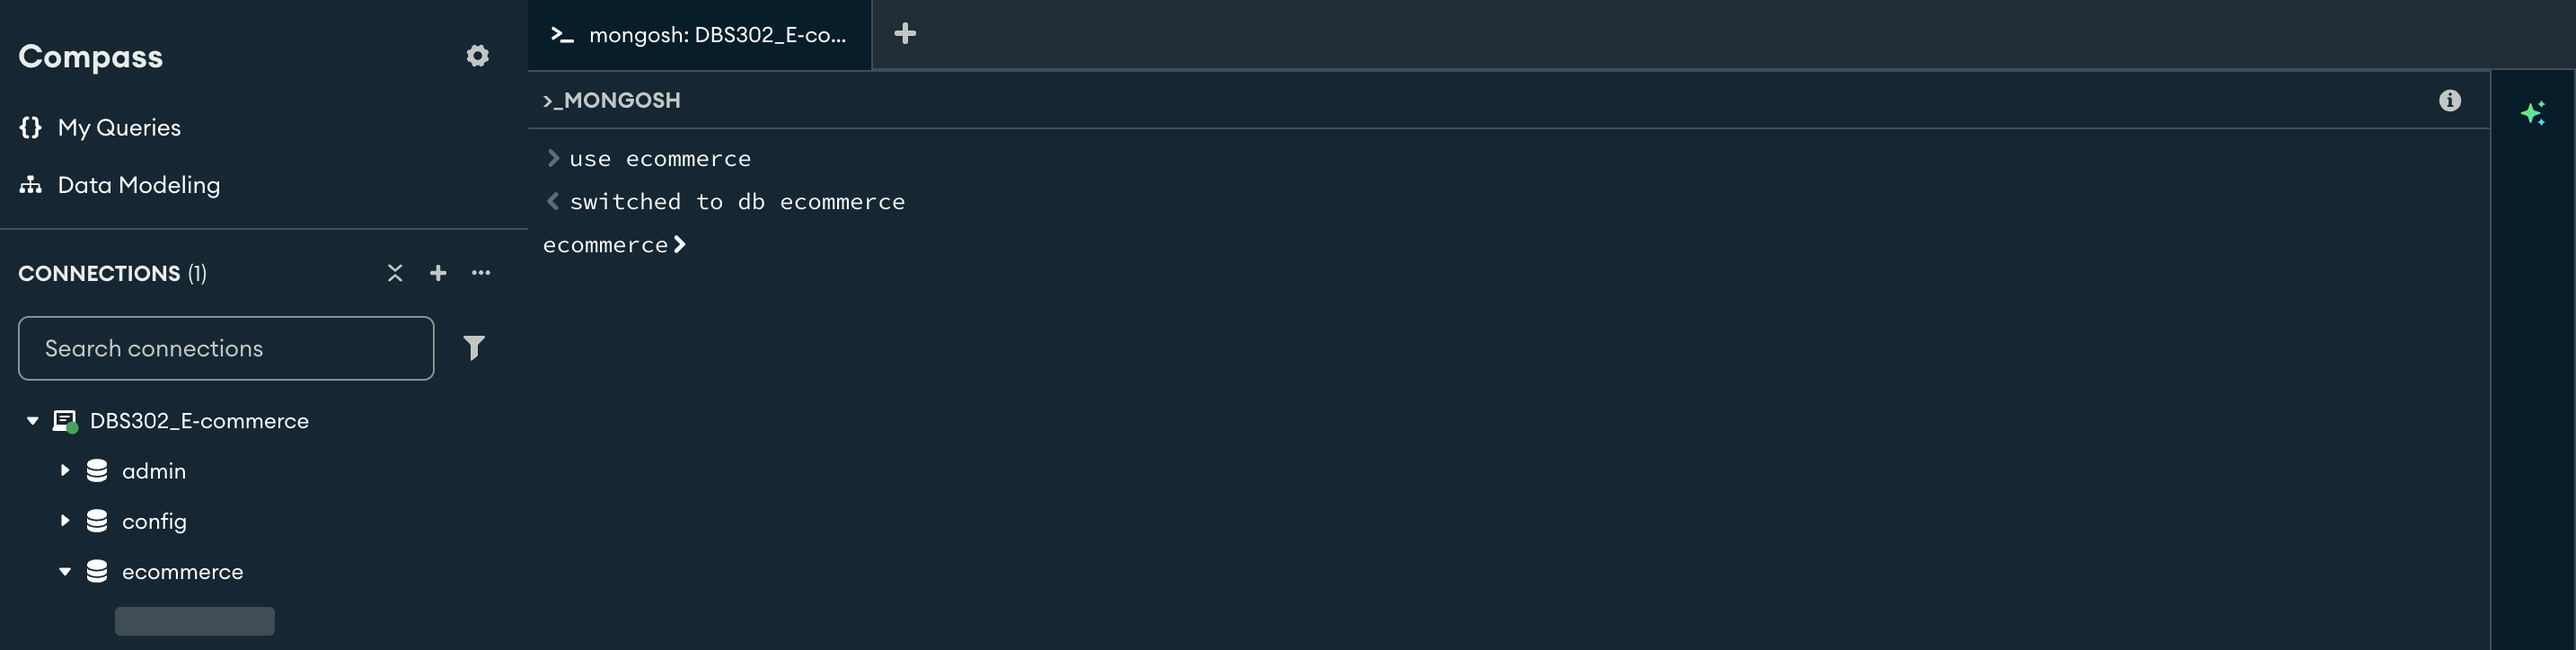
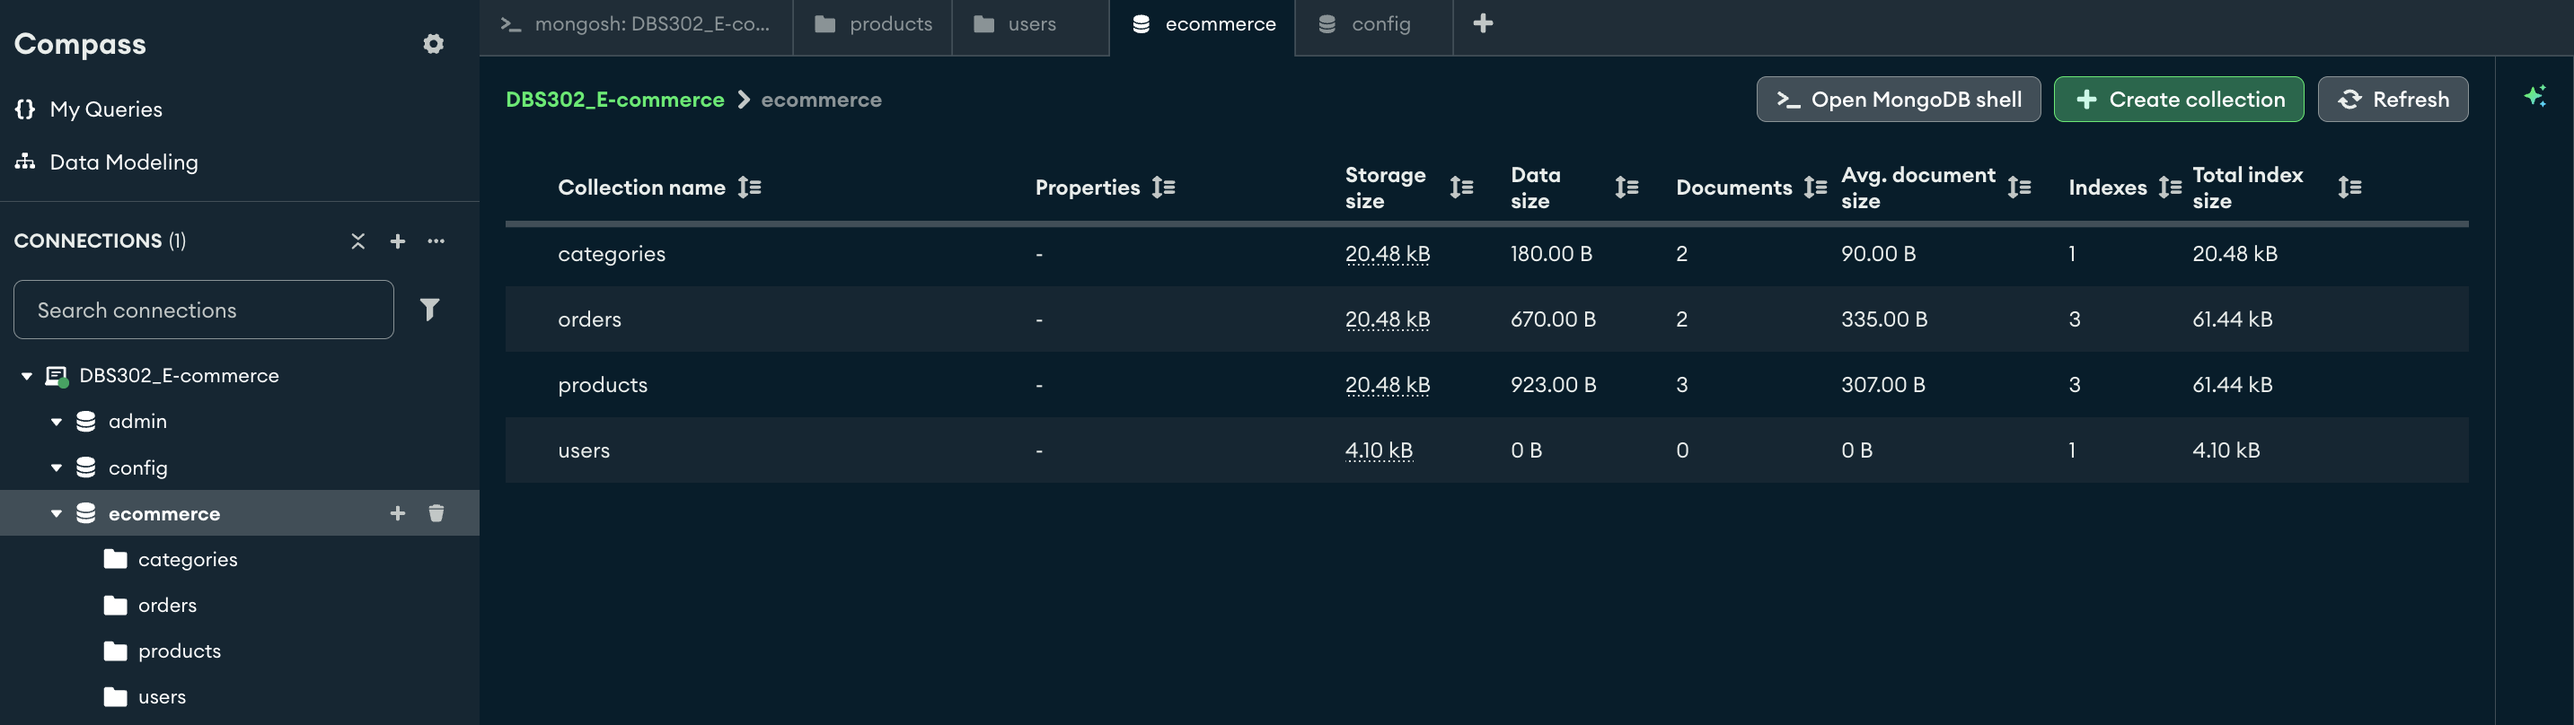
[update] practical3 report

diff --git a/Practical_3/README.MD b/Practical_3/README.MD
@@ -1,1 +1,248 @@
-# Report 
+# DBS302 Practical 3 Report
+
+## Title
+Design and Implement an E-Commerce Platform Schema in MongoDB, Use Aggregation Framework, and Optimize Query Performance
+
+## Aim
+To design and implement an e-commerce platform schema using MongoDB, write advanced aggregation queries, and apply indexing plus query plan analysis to optimize performance.
+
+## Objectives Achieved
+1. Modeled a realistic e-commerce domain with users, categories, products, and orders.
+2. Implemented the schema as MongoDB collections and inserted representative sample data.
+3. Built non-trivial aggregation pipelines for business analytics.
+4. Created indexes (compound and text) aligned to query patterns.
+5. Used explain("executionStats") to validate optimization impact.
+
+## Brief Design Rationale
+1. Embedding vs Referencing
+Order items are embedded in orders because they are read together and bounded per order.
+Users, products, and categories are referenced by ObjectId to avoid duplication of shared entities.
+
+2. Attribute Pattern for Catalog Flexibility
+The products collection uses an attributes object for variable product properties (brand, color, switchType, etc.), which supports heterogeneous product categories.
+
+3. Query-First Design
+Indexes were created based on frequent read patterns such as status/date filtering, user order history, category listing, and product text search.
+
+## Part 1: Database and Collection Setup
+### 1.1 Create Database
+```javascript
+use ecommerce
+```
+
+### 1.2 Create Collections
+Created collections: users, categories, products, orders.
+
+<img src="screenshots/Create collections.png" alt="Create collections command" width="60%"/>
+
+This screenshot shows the commands used to create the required MongoDB collections for the e-commerce schema.
+
+<img src="screenshots/ecommerce database.png" alt="Database created" width="60%"/>
+
+This output confirms that the `ecommerce` database is active and ready for data insertion.
+
+## Part 2: Insert Sample Data
+### 2.1 Insert Users
+Inserted two users: Tashi Dorji and Sonam Choden.
+
+<img src="screenshots/Insert Users.png" alt="Insert users command" width="60%"/>
+
+This screenshot shows the insertMany command used to add user documents with profile and address details.
+
+<img src="screenshots/inserted user data.png" alt="Inserted users output" width="60%"/>
+
+This output verifies that both user records were successfully inserted into the users collection.
+
+### 2.2 Insert Categories
+Inserted Electronics and Accessories categories using reusable ObjectId variables.
+
+<img src="screenshots/Insert Categories.png" alt="Insert categories command" width="60%"/>
+
+This screenshot shows category insertion with predefined ObjectId values for later product references.
+
+<img src="screenshots/inserted categories.png" alt="Inserted categories output" width="60%"/>
+
+This confirms that Electronics and Accessories categories were inserted correctly.
+
+### 2.3 Insert Products
+Inserted three products with variable attributes via the Attribute Pattern.
+
+<img src="screenshots/Insert Products.png" alt="Insert products command" width="60%"/>
+
+This screenshot captures product insertion using flexible `attributes` fields for different product properties.
+
+<img src="screenshots/inserted product.png" alt="Inserted products output" width="60%"/>
+
+This output confirms all sample products were added with category links and pricing details.
+
+### 2.4 Insert Orders
+Inserted two orders with embedded order items and historical pricing stored in each item.
+
+
+<img src="screenshots/Insert Orders.png" alt="Insert orders command" width="60%"/>
+
+This screenshot shows order creation with embedded items, quantities, line totals, and payment details.
+
+<img src="screenshots/inserted orders.png" alt="Inserted orders output" width="60%"/>
+
+This output verifies order documents were inserted successfully for both users.
+
+## Part 3: Basic Retrieval Queries
+### 3.1 Retrieve All Users
+<img src="screenshots/Retrieve All Users.png" alt="Retrieve all users" width="60%"/>
+
+This query output displays all documents in the users collection for data verification.
+
+### 3.2 Retrieve All Products
+<img src="screenshots/RetrieveAllProducts.png" alt="Retrieve all products" width="60%"/>
+
+This output lists all products and confirms catalog data was inserted as expected.
+
+### 3.3 Retrieve Specific User Order
+<img src="screenshots/RetrieveUserOrder.png" alt="Retrieve user order" width="60%"/>
+
+This screenshot shows how orders are filtered for a specific user to validate order linkage.
+
+## Part 4: Aggregation Queries for Analytics
+### 4.1 Daily Sales Totals
+Uses $match, $group, $project, and $sort to compute daily revenue and order counts.
+
+<img src="screenshots/Query 1_Daily Sales Totals.png" alt="Daily sales totals aggregation" width="60%"/>
+
+This result summarizes total revenue and order count per day from paid orders.
+
+### 4.2 Top Products by Revenue
+Uses $unwind + $group + $sort + $limit to identify top-performing products.
+
+<img src="screenshots/Query 2_Top Products by Revenue.png" alt="Top products aggregation" width="60%"/>
+
+This output ranks products by total revenue and total quantity sold.
+
+### 4.3 Average Order Value per Customer
+Uses $group + $lookup + $project for user-level spending analytics.
+
+<img src="screenshots/Query 3_Average Order.png" alt="Average order value aggregation" width="60%"/>
+
+This result computes each customer's total spent, minimum, maximum, and average order value.
+
+### 4.4 Product Catalog View with Category Name
+Uses $lookup and $project to enrich products with category names.
+
+<img src="screenshots/Query 4_Product Catalog.png" alt="Product catalog with category aggregation" width="60%"/>
+
+This output joins products with categories to show enriched catalog information.
+
+## Part 5: Indexing for Performance Optimization
+### 5.1 Orders by User and Date
+Index created for user order history sorted by recent date.
+
+<img src="screenshots/Index 1_Orders by User and Date.png" alt="Index on orders by user and date" width="60%"/>
+
+This screenshot confirms creation of a compound index for fast user order history queries.
+
+### 5.2 Orders by Status and Date (ESR-aligned)
+Compound index created to support status filter and createdAt sorting.
+
+<img src="screenshots/Index 2.png" alt="Compound index for status and date" width="60%"/>
+
+This index supports status filtering and date sorting, aligned with frequent operational queries.
+
+### 5.3 Products by Category and Price
+Compound index created for category filtering and price sort.
+
+<img src="screenshots/Index 3.png" alt="Index on products category and price" width="60%"/>
+
+This screenshot shows the index used to optimize product listing by category and price.
+
+### 5.4 Text Index for Product Search
+Weighted text index created on product name and tags.
+
+<img src="screenshots/Index 4.png" alt="Text index creation" width="60%"/>
+
+This confirms creation of a weighted text index for product keyword search.
+
+### 5.5 Text Search Execution
+Text search query tested using relevance score sorting.
+
+<img src="screenshots/Query 5_Text Search.png" alt="Text search query output" width="60%"/>
+
+This output demonstrates text search results ranked by text relevance score.
+
+## Part 6: Query Plan Analysis with explain("executionStats")
+### 6.1 Before Index (COLLSCAN)
+Query initially performed collection scan.
+
+<img src="screenshots/Part A_1 winningPlan.png" alt="Winning plan before index" width="60%"/>
+
+This plan shows the pre-optimization execution path, indicating slower scan behavior.
+
+<img src="screenshots/Part A_2 executionStats.png" alt="Execution stats before index" width="60%"/>
+
+These statistics provide baseline metrics before index optimization.
+
+### 6.2 Create Supporting Index
+Created status + createdAt index.
+
+<img src="screenshots/Part C Recreate the index.png" alt="Create status-date index" width="60%"/>
+
+This screenshot shows the index creation step used to optimize status and date-based queries.
+
+### 6.3 After Index (IXSCAN)
+Query plan changed to index scan.
+
+<img src="screenshots/Part D executionStats.png" alt="Execution stats after index" width="60%"/>
+
+These post-index metrics show improved efficiency and reduced scanning cost.
+
+<img src="screenshots/Part D winningPlan section.png" alt="Winning plan after index" width="60%"/>
+
+This winning plan confirms index usage after optimization.
+
+### 6.4 Before vs After Summary
+| Metric | Before | After |
+|---|---|---|
+| Winning stage | COLLSCAN | IXSCAN |
+| totalDocsExamined | High / full scan behavior | Reduced |
+| totalKeysExamined | 0 | > 0 (index keys examined) |
+| executionTimeMillis | Higher | Lower |
+| indexName | None | idx_orders_status_createdAt |
+
+This confirms that the index reduced scan cost and improved query efficiency.
+
+### 6.5 Verify Available Indexes
+<img src="screenshots/Part E View All Indexes.png" alt="View all indexes" width="60%"/>
+
+This output verifies all active indexes on the collection after tuning.
+
+### 6.6 Validate Text Search
+<img src="screenshots/Part F Test Text Search.png" alt="Text search validation" width="60%"/>
+
+This screenshot validates that the text index works correctly with practical search terms.
+
+## Requirements-to-Evidence Mapping
+| Practical Requirement | Evidence in Report |
+|---|---|
+| Create ecommerce database and collections | Create collections, ecommerce database screenshots |
+| Insert realistic sample users/products/orders/categories | Insert and inserted output screenshots for all 4 collections |
+| Daily sales analytics | Query 1 screenshot |
+| Top products by revenue | Query 2 screenshot |
+| Average order value per customer | Query 3 screenshot |
+| Product + category enrichment with lookup | Query 4 screenshot |
+| Index creation for key patterns | Index 1, 2, 3, 4 screenshots |
+| Text search test | Query 5 and Part F screenshots |
+| Explain before/after optimization | Part A, Part C, Part D screenshots |
+| Index verification | Part E screenshot |
+
+## Reflection
+1. The document model fit e-commerce workloads well by combining embedded order items with referenced master data.
+2. Aggregation pipelines provided business insights directly from operational collections.
+3. Performance validation using explain("executionStats") was essential to prove index impact instead of assuming optimization.
+
+## Conclusion
+In this practical, we designed a MongoDB database for an e-commerce system using a query-first approach. We created four main collections: users, categories, products, and orders. Some data was embedded (like order items inside orders) because it is always used together, while other data (like products) was referenced to avoid duplication.
+
+We also built aggregation queries to get useful insights, such as total daily sales, top-selling products, and average order value. These queries used stages like filtering, grouping, and joining data from different collections.
+
+A key part of this practical was improving performance using indexes. We created different indexes to speed up common queries, and used explain **("executionStats")** to compare performance before and after. This showed a clear improvement, changing from full collection scans to faster index scans.
+
+Finally, we avoided common mistakes like storing too much data in one place or using indexes incorrectly. Overall, this practical showed how to design an efficient and scalable MongoDB database for real-world use.
